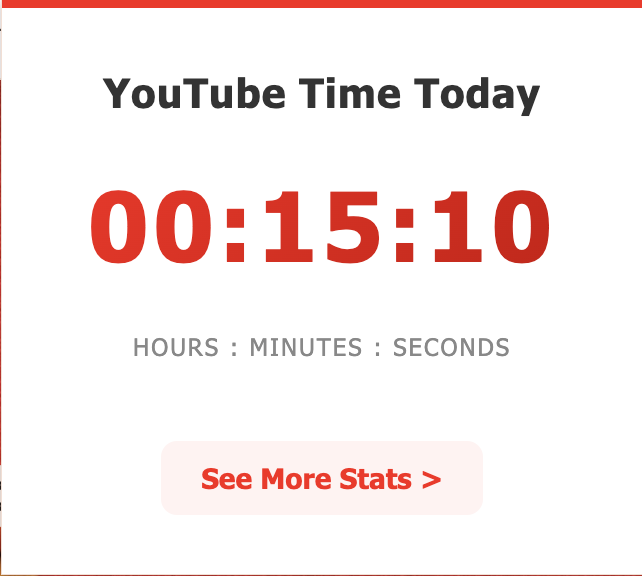
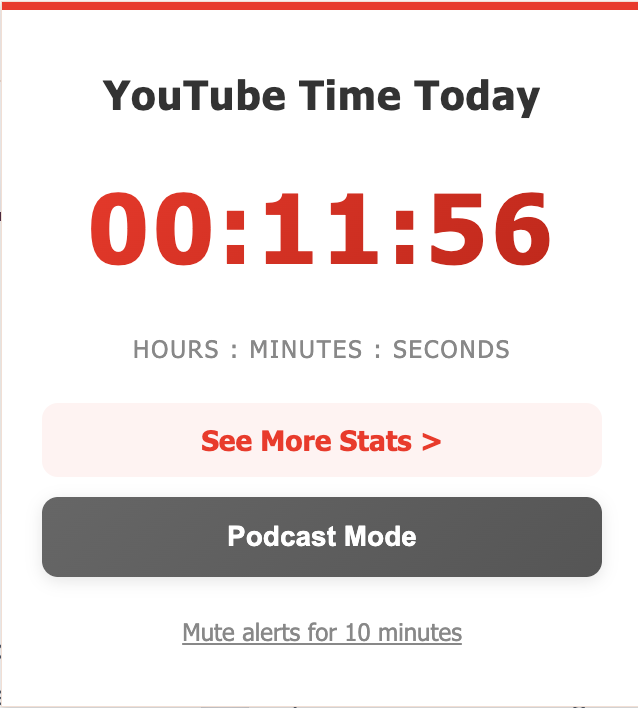
Add blueleaf app to site, update links

diff --git a/src/components/Projects.tsx b/src/components/Projects.tsx
@@ -18,14 +18,37 @@ type Project = {
 
 const projects: Project[] = [
   {
+    title: "Blueleaf Mobile Client App",
+    description: "Rebuilt a production mobile application for financial advisors from the ground up using React Native, delivering a cross-platform experience on iOS and Android with redesigned interfaces informed by direct client feedback.",
+    extendedDescription: "Took ownership of a full rebuild of Blueleaf's mobile advisor application using React Native, replacing the existing codebase with a modernized architecture that runs natively on both iOS and Android. The project spanned the entire development lifecycle — from setting up the build environment and configuring platform-specific identifiers across Xcode and Android, to implementing updated UI components and shipping the final product. Conducted live interviews with financial advisor clients to identify pain points in how they interacted with portfolio data, large-scale reporting, and day-to-day account management. Feedback from those conversations directly shaped interface decisions and feature priorities throughout the build. The result was a cleaner, more usable mobile experience designed around how advisors actually work with their clients' data.",
+    tags: ["Mobile App", "React Native", "Full Stack"],
+    status: "Live",
+    emoji: "📱",
+    image: "/projects/blueleaf_graph.png",
+    images: ["/projects/blueleaf_home.png", "/projects/blueleaf_holdings.png", "/projects/blueleaf_notifications.png"],
+    websiteUrl: "https://www.blueleaf.com/reporting/client-mobile-app/",
+  },
+  {
     title: "Job Search Organizer",
     description: "A Chrome extension that autofills job posting details and saves them to a personal dashboard with multiple views, filters, and status tracking to keep your job search organized.",
     extendedDescription: "Built to solve the chaos of managing dozens of job applications at once. When clicked from any job posting page, the extension automatically extracts key details like company name, role title, location, and description into a popup where the user can review and edit before saving. All saved jobs are accessible through a companion dashboard site with multiple views — card, list, and table — along with filters by status (submitted, interviewing, hired, rejected), company, and date. The goal is to give job seekers a single organized place to track every application without juggling spreadsheets or losing track of where they applied.",
     tags: ["Chrome Extension", "JavaScript", "HTML/CSS"],
-    status: "In Progress",
+    status: "Live",
     emoji: "🔍",
-    image: "/projects/job-search-popup.png",
-    images: ["/projects/job-search-dashboard.png", "/projects/job-search-dashboard-grid.png"],
+    image: "/projects/jobflow_kanban.png",
+    images: ["/projects/jobflow_details.png", "/projects/jobflow_popup.png", "/projects/jobflow_connections.png"],
+    websiteUrl: "https://chromewebstore.google.com/detail/bcohcpbdbhpmamckpjoijefabfcnnmkc?utm_source=item-share-cb",
+    githubUrl: "https://github.com/FionaKP/job-search-extension",
+  },
+  {
+    title: "Automated Parachute Packing System",
+    description: "Senior Major Qualifying Project (MQP) integrating a WidowX-200 robotic arm, ESP32 microcontrollers, and dual cameras into an automated packing solution with ROS 2 architecture.",
+    extendedDescription: "This senior capstone project tackles the labor-intensive and precision-critical process of packing parachutes by automating it with robotics. The system uses a WidowX-200 robotic arm controlled through ROS 2 to perform the folding and packing sequence, guided by two cameras for visual feedback and alignment. ESP32 microcontrollers handle low-level sensor and actuator communication, while a finite state machine orchestrates the overall packing workflow. The project involved mechanical design, embedded programming, computer vision integration, and extensive testing to ensure reliable and repeatable packing quality.",
+    tags: ["ROS 2", "Python", "Robotics", "Finite State Machine"],
+    status: "In Progress",
+    emoji: "🪂",
+    image: "/projects/parachute-system.jpg",
+    githubUrl: "https://github.com/cguanmy11-droid/MQP-Parachute-Packing-Automation-and-Inspection",
   },
   {
     title: "YouTube Time Tracker",
@@ -38,16 +61,6 @@ const projects: Project[] = [
     images: ["/projects/youtube-tracker-extended.png"],
     // websiteUrl: "https://example.com",
     githubUrl: "https://github.com/FionaKP/youtube-time-tracker",
-  },
-  {
-    title: "Automated Parachute Packing System",
-    description: "Senior Major Qualifying Project (MQP) integrating a WidowX-200 robotic arm, ESP32 microcontrollers, and dual cameras into an automated packing solution with ROS 2 architecture.",
-    extendedDescription: "This senior capstone project tackles the labor-intensive and precision-critical process of packing parachutes by automating it with robotics. The system uses a WidowX-200 robotic arm controlled through ROS 2 to perform the folding and packing sequence, guided by two cameras for visual feedback and alignment. ESP32 microcontrollers handle low-level sensor and actuator communication, while a finite state machine orchestrates the overall packing workflow. The project involved mechanical design, embedded programming, computer vision integration, and extensive testing to ensure reliable and repeatable packing quality.",
-    tags: ["ROS 2", "Python", "Robotics", "Finite State Machine"],
-    status: "In Progress",
-    emoji: "🪂",
-    image: "/projects/parachute-system.jpg",
-    githubUrl: "https://github.com/cguanmy11-droid/MQP-Parachute-Packing-Automation-and-Inspection",
   },
   {
     title: "Ecuador Microfinance Platform",
@@ -90,7 +103,7 @@ const projects: Project[] = [
     status: "Completed",
     emoji: "📄",
     image: "/projects/map.png",
-    githubUrl: "https://github.com/RBE300X-Lab/RBE3002_D25_Team07/",
+    // githubUrl: "https://github.com/RBE300X-Lab/RBE3002_D25_Team07/",
   },
   {
     title: "Sports Injury Recovery Model",
